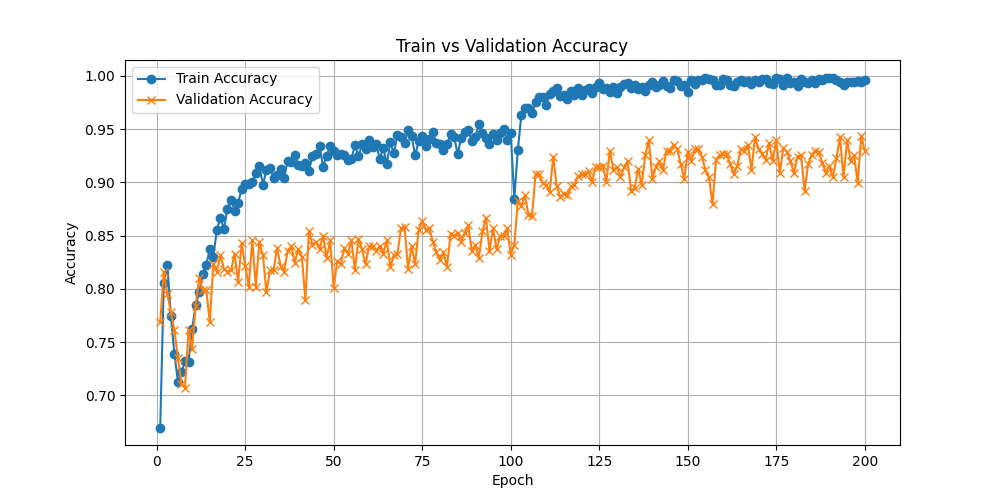
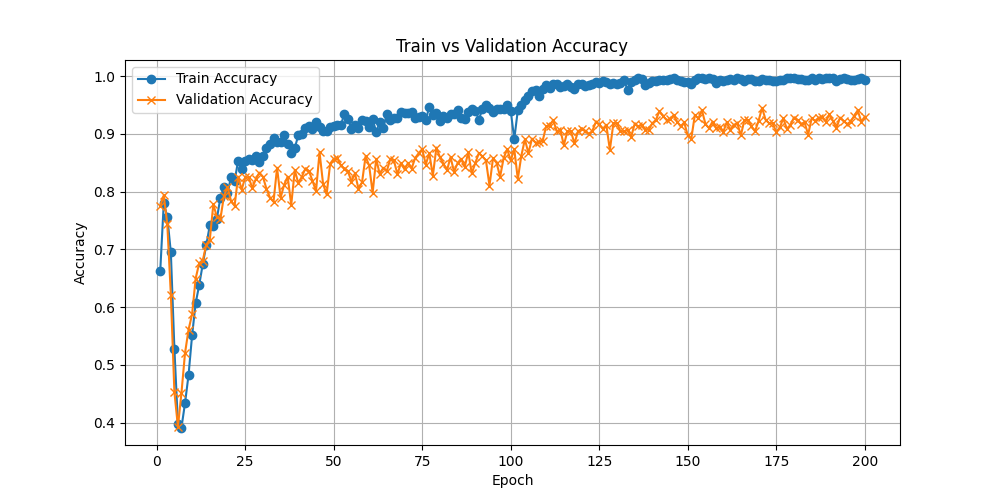
===2025/05/18=== mac

diff --git a/noRetrainOnTorch.py b/noRetrainOnTorch.py
@@ -26,13 +26,13 @@
 # | EfficientNetV2M   |                  |
 # | ConvNeXtTiny      |                  |
 # | 半凍結半訓練-200epoch------------------------------------|
-# | MobileNetV2       | 0.8833333333333333                 |
-# | EfficientNetB0    | 0.9250000000000000                 |
-# | EfficientNetB1    | 0.9305555555555556                 |
-# | EfficientNetB7    | 0.9111111111111111                 |
-# | EfficientNetV2S   | 0.9333333333333333                 |
-# | EfficientNetV2M   | 0.9222222222222223                 |
-# | ConvNeXtTiny      | 0.8888888888888888                 |
+# | MobileNetV2       | 0.8833                             |
+# | EfficientNetB0    | 0.9194                             |
+# | EfficientNetB1    | 0.9111                             |
+# | EfficientNetB7    | 0.9333                             |
+# | EfficientNetV2S   | 0.9083                             |
+# | EfficientNetV2M   | 0.9139                             |
+# | ConvNeXtTiny      | 0.9139                             |
 
 # | 前50凍結後50finetune50%-100epoch-------------------------|
 # | MobileNetV2       | 0.8833333333333333                 |
@@ -41,7 +41,7 @@
 # | EfficientNetB7    |                  |
 # | EfficientNetV2S   | 0.9166666666666666                 |
 # | EfficientNetV2M   | 0.9388888888888889                 |
-# | ConvNeXtTiny      |  0.9277777777777778                |
+# | ConvNeXtTiny      | 0.9277777777777778                 |
 
 
 import os
@@ -208,7 +208,7 @@ for m in model_list :
         model_dir = model_dir + "/ConvNeXtTiny"
 
 
-    model_dir = model_dir + "/halfFreezeHalfTrain_200epochs"
+    model_dir = model_dir + "/allFreeze_50epochs"
 
     
     #全凍結
@@ -221,8 +221,8 @@ for m in model_list :
     #scheduler = torch.optim.lr_scheduler.StepLR(optimizer, step_size=15, gamma=0.5)
 
     best_val_acc = 0.0
-    initial_epochs = 200
-    freeze_epochs = 100
+    initial_epochs = 50
+    freeze_epochs = -1
 
     train_acc_list = []
     val_acc_list = []
